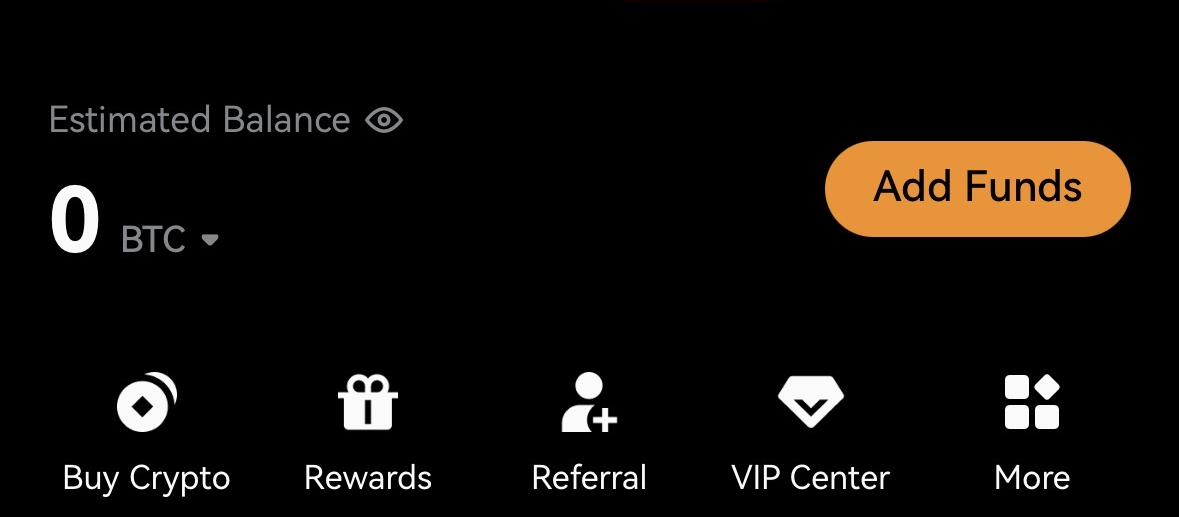
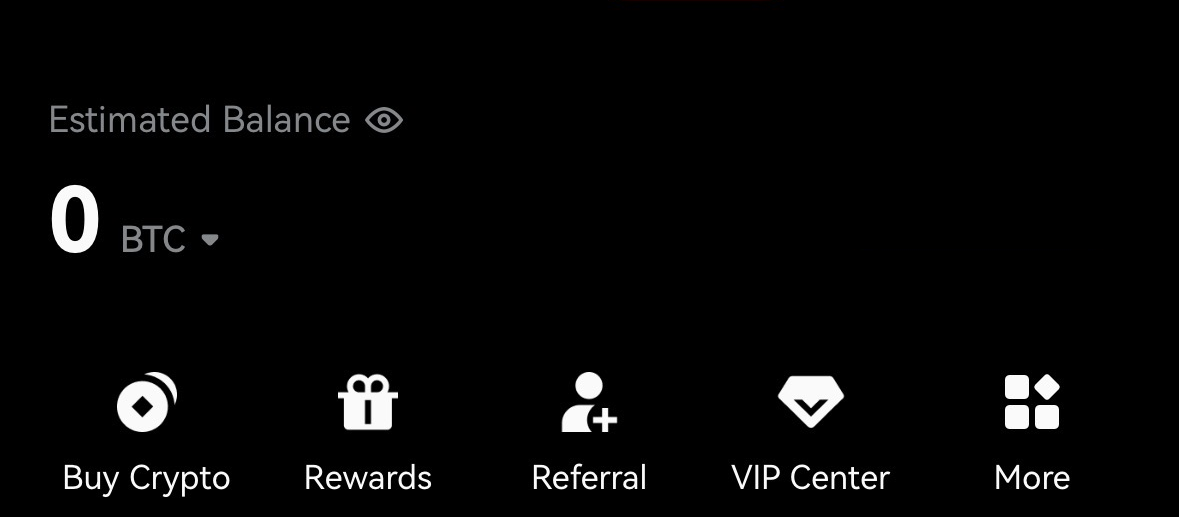
Shrink Deposit/Add Funds buttons, add ticker spacing, wire live NVDA price via Yahoo Finance proxy, rotate non-fixed pairs in market list

Changed region(s): [[0.7023, 0.2476, 0.9771, 0.4642]]

diff --git a/public/js/app.js b/public/js/app.js
@@ -51,6 +51,11 @@
   const SPOT_PAIRS    = ['BTC', 'ETH', 'SOL', 'XRP', 'PAXG'];
   const FUTURES_PAIRS = ['BTC', 'ETH', 'SOL', 'XRP', 'BNB', 'DOGE', 'ADA', 'AVAX'];
   const TRADFI_PAIRS  = ['XAU', 'LINK', 'DOT', 'HBAR', 'XLM'];
+  // First entry of each list stays fixed on top; the rest rotate through a
+  // wider pool every few seconds so more coins get visibility.
+  const SPOT_FIXED = 'BTC', SPOT_ROTATE = ['ETH', 'SOL', 'XRP', 'PAXG', 'BNB', 'DOGE', 'ADA', 'AVAX', 'LINK', 'DOT', 'HBAR', 'XLM'];
+  const FUTURES_FIXED = 'BTC', FUTURES_ROTATE = ['ETH', 'SOL', 'XRP', 'BNB', 'DOGE', 'ADA', 'AVAX', 'LINK', 'DOT', 'HBAR', 'XLM', 'PAXG'];
+  const TRADFI_FIXED = 'XAU', TRADFI_ROTATE = ['LINK', 'DOT', 'HBAR', 'XLM', 'BNB', 'ADA', 'AVAX', 'ETH', 'SOL', 'XRP'];
   const COIN_COLORS = { BTC:'#F7931A', ETH:'#627EEA', SOL:'#9945FF', HYPE:'#4FAAFF', XAU:'#E5C55A',
     XRP:'#00AAE4', BNB:'#F3BA2F', DOGE:'#C3A634', ADA:'#0D1E2D', AVAX:'#E84142',
     PAXG:'#D4AF37', LINK:'#2A5ADA', DOT:'#E6007A', HBAR:'#222', XLM:'#000' };
@@ -194,9 +199,19 @@
     const TICKER_SYM = { XAU: 'PAXG', XLM: 'XLM', HYPE: 'HYPE' };
     function getTickerKey(sym) { return (TICKER_SYM[sym] || sym) + 'USDT'; }
 
+    function getPairsList() {
+      const [fixed, pool, count] =
+        activeTab === 1 ? [FUTURES_FIXED, FUTURES_ROTATE, 7] :
+        activeTab === 2 ? [TRADFI_FIXED, TRADFI_ROTATE, 4] :
+        [SPOT_FIXED, SPOT_ROTATE, 4];
+      const rotated = [];
+      for (let i = 0; i < count; i++) rotated.push(pool[(rotateOffset + i) % pool.length]);
+      return [fixed, ...rotated];
+    }
+
     function renderRows() {
       rowsDiv.innerHTML = '';
-      const pairsList = activeTab === 1 ? FUTURES_PAIRS : activeTab === 2 ? TRADFI_PAIRS : SPOT_PAIRS;
+      const pairsList = getPairsList();
       const loading = !tickerMap;
       pairsList.forEach(sym => {
         const t = tickerMap ? (tickerMap[getTickerKey(sym)] || tickerMap[sym + 'USDT']) : null;
@@ -233,6 +248,8 @@
     }
 
     let activeTab = 0;
+    let rotateOffset = 0;
+    setInterval(() => { rotateOffset++; renderRows(); }, 4000);
     TABS.forEach((label, i) => {
       const tab = document.createElement('div');
       tab.textContent = label;
@@ -464,20 +481,30 @@
       const depositBtn = document.createElement('a');
       depositBtn.href = '/wallet';
       depositBtn.textContent = 'Deposit';
-      depositBtn.style.cssText = 'display:inline-flex;align-items:center;justify-content:center;height:32px;padding:0 18px;border-radius:16px;background:#F68F15;color:#000;font-weight:700;font-size:14px;text-decoration:none;white-space:nowrap;';
+      depositBtn.style.cssText = 'display:inline-flex;align-items:center;justify-content:center;height:27px;padding:0 14px;border-radius:14px;background:#F68F15;color:#000;font-weight:700;font-size:12.5px;text-decoration:none;white-space:nowrap;';
       authBtns.appendChild(depositBtn);
       authBtns.style.cssText += ';display:flex!important';
     }
 
-    // Dashboard block: the exact reference image (Estimated Balance / Add
-    // Funds / Buy Crypto-Rewards-Referral-VIP Center-More row), used as-is —
-    // same pattern as the hero-mockup image below the logged-out CTA.
-    const dash = document.createElement('a');
+    // Dashboard block: the exact reference image (Estimated Balance / Buy
+    // Crypto-Rewards-Referral-VIP Center-More row), used as-is — same
+    // pattern as the hero-mockup image below the logged-out CTA. The Add
+    // Funds pill is painted out of the image and rebuilt as a real
+    // (smaller, resizable) button positioned over the same spot.
+    const dash = document.createElement('div');
     dash.id = 'cvx-loggedin-dash';
-    dash.href = '/wallet';
-    dash.style.cssText = 'display:block;padding:26px 0 0;';
-    dash.innerHTML = '<img src="/images/brand/loggedin-dashboard.png" alt="Estimated Balance" style="width:100%;height:auto;display:block;">';
+    dash.style.cssText = 'padding:26px 0 0;';
+    dash.innerHTML = `
+      <div style="position:relative;">
+        <a href="/wallet" style="display:block;"><img src="/images/brand/loggedin-dashboard.png" alt="Estimated Balance" style="width:100%;height:auto;display:block;"></a>
+        <a href="/wallet" style="position:absolute;right:4%;top:36.6%;transform:translateY(-50%);display:inline-flex;align-items:center;justify-content:center;height:34px;padding:0 18px;border-radius:17px;background:#F68F15;color:#000;font-weight:700;font-size:13px;text-decoration:none;white-space:nowrap;">Add Funds</a>
+      </div>
+    `;
     heroLink.insertAdjacentElement('afterend', dash);
+
+    // Nudge the ticker cards down a bit for breathing room under the dash
+    const tickerGrid = document.getElementById('heroTickerGrid');
+    if (tickerGrid) tickerGrid.style.setProperty('margin-top', '28px', 'important');
   }
 
   // ── 8. EARTH VIDEO ────────────────────────────────────────────────────────

diff --git a/public/index.html b/public/index.html
@@ -131,6 +131,7 @@ height="0" width="0" style="display:none;visibility:hidden"></iframe></noscript>
   <a href="/trade/spot/XAUTUSDT" data-tk="XAUTUSDT" style="position:absolute;left:51.5%;top:24%;width:24%;height:12%;background:#131516"></a>
   <a href="/trade/spot/ETHUSDT" data-tk="ETHUSDT" style="position:absolute;left:6.5%;top:70%;width:24%;height:12%;background:#131516"></a>
   <a href="/tradfi" style="position:absolute;left:51.5%;top:70%;width:24%;height:12%;background:#131516"></a>
+  <div class="tk-txt" data-for="NVDA" style="position:absolute;left:51.5%;top:70%;width:24%;height:12%;display:flex;align-items:center;gap:6px;font-size:15px;font-weight:700;color:#fff;pointer-events:none"><span class="tk-price">--</span><span class="tk-change" style="font-size:10px;font-weight:500"></span></div>
   <div class="tk-txt" data-for="BTCUSDT" style="position:absolute;left:6.5%;top:24%;width:24%;height:12%;display:flex;align-items:center;gap:6px;font-size:15px;font-weight:700;color:#fff;pointer-events:none"><span class="tk-price">--</span><span class="tk-change" style="font-size:10px;font-weight:500"></span></div>
   <div class="tk-txt" data-for="XAUTUSDT" style="position:absolute;left:51.5%;top:24%;width:24%;height:12%;display:flex;align-items:center;gap:6px;font-size:15px;font-weight:700;color:#fff;pointer-events:none"><span class="tk-price">--</span><span class="tk-change" style="font-size:10px;font-weight:500"></span></div>
   <div class="tk-txt" data-for="ETHUSDT" style="position:absolute;left:6.5%;top:70%;width:24%;height:12%;display:flex;align-items:center;gap:6px;font-size:15px;font-weight:700;color:#fff;pointer-events:none"><span class="tk-price">--</span><span class="tk-change" style="font-size:10px;font-weight:500"></span></div>
@@ -151,6 +152,16 @@ height="0" width="0" style="display:none;visibility:hidden"></iframe></noscript>
         chEl.textContent = (up?"+":"") + t.change24h.toFixed(2) + "%";
         chEl.style.color = up ? "#1db26e" : "#e05252";
       });
+    }).catch(function(){});
+    fetch("/api/v1/market/stock?symbol=NVDA").then(function(r){return r.json();}).then(function(t){
+      if(!t || t.lastPrice == null) return;
+      var el = document.querySelector('.tk-txt[data-for="NVDA"]');
+      if(!el) return;
+      el.querySelector(".tk-price").textContent = fmt(t.lastPrice, 2);
+      var chEl = el.querySelector(".tk-change");
+      var up = t.change24h >= 0;
+      chEl.textContent = (up?"+":"") + t.change24h.toFixed(2) + "%";
+      chEl.style.color = up ? "#1db26e" : "#e05252";
     }).catch(function(){});
   }
   refresh();

diff --git a/server.js b/server.js
@@ -2984,6 +2984,27 @@ app.get('/api/p2p/exchange-ticker', async (req, res) => {
 });
 
 // API v1 ticker endpoint - used by frontend market pages
+app.get('/api/v1/market/stock', async (req, res) => {
+  const symbol = String(req.query.symbol || 'NVDA').toUpperCase().replace(/[^A-Z.]/g, '').slice(0, 10);
+  try {
+    const response = await fetch(
+      `https://query1.finance.yahoo.com/v8/finance/chart/${encodeURIComponent(symbol)}?interval=1d&range=1d`,
+      { headers: { 'User-Agent': 'Mozilla/5.0' } }
+    );
+    const data = await response.json();
+    const meta = data && data.chart && data.chart.result && data.chart.result[0] && data.chart.result[0].meta;
+    if (!response.ok || !meta || typeof meta.regularMarketPrice !== 'number') {
+      throw new Error('Stock API unavailable');
+    }
+    const lastPrice = meta.regularMarketPrice;
+    const prevClose = meta.previousClose || meta.chartPreviousClose || lastPrice;
+    const change24h = prevClose ? ((lastPrice - prevClose) / prevClose) * 100 : 0;
+    return res.json({ source: 'yahoo', symbol, lastPrice, change24h, updatedAt: new Date().toISOString() });
+  } catch (error) {
+    return res.json({ source: 'fallback', symbol, lastPrice: null, change24h: null, updatedAt: new Date().toISOString() });
+  }
+});
+
 app.get('/api/v1/market/tickers', async (req, res) => {
   const requestedSymbols = String(req.query.symbols || '')
     .split(',')
